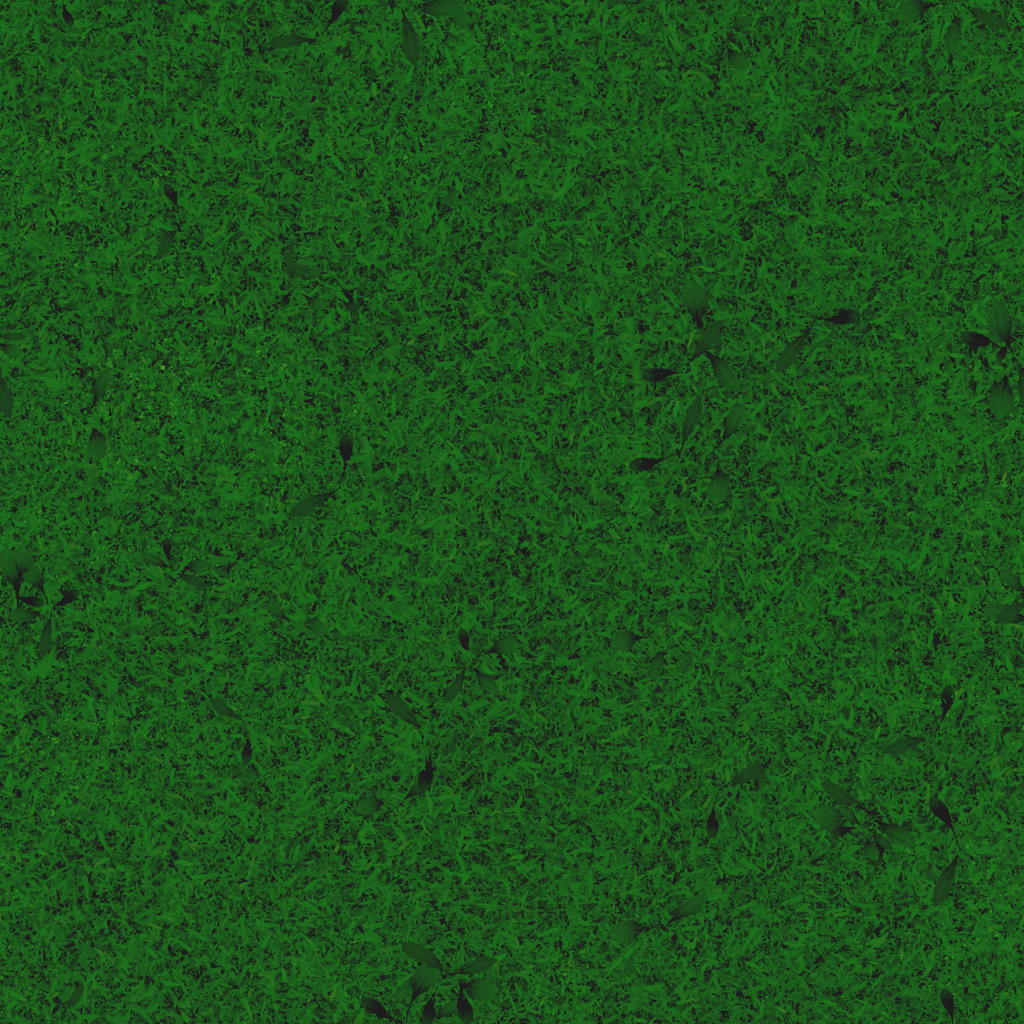
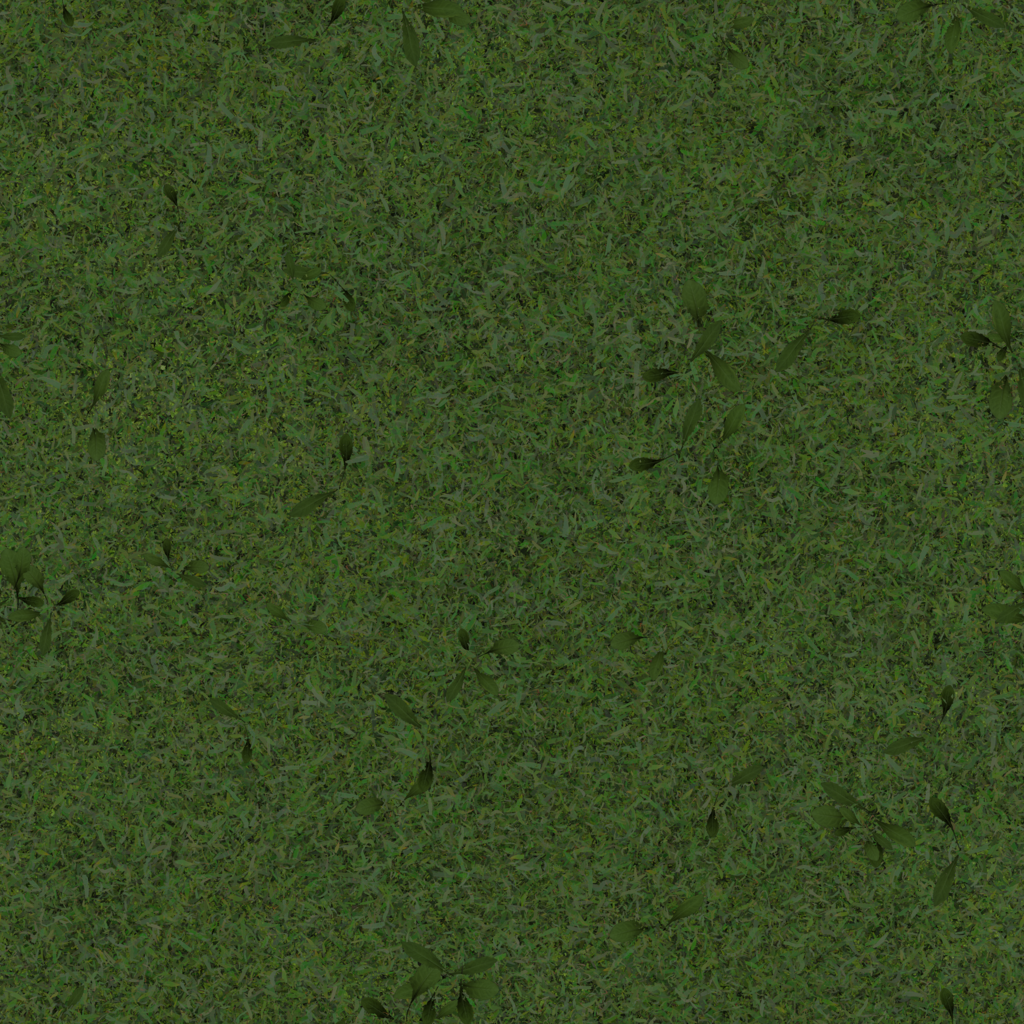
triangle trees

diff --git a/src/main.rs b/src/main.rs
@@ -292,7 +292,7 @@ fn create_tree(center: Vec3, index_offset: u32) -> (Vec<Vec3>, Vec<u32>, Vec<Vec
     let mut indices = Vec::new();
     let mut uvs = Vec::new();
     // let tree_height = 1.6;
-    let tree_height = random_range(0.8_f32..4.0);
+    let tree_height = random_range(0.8_f32..4.0) * 0.8;
     let tree_base_width = random_range(0.2_f32..0.8);
     // let tree_base_width = 0.5;
     // let tree_height = 1.6 * 10.0;
@@ -309,7 +309,7 @@ fn create_tree(center: Vec3, index_offset: u32) -> (Vec<Vec3>, Vec<u32>, Vec<Vec
 
     for i in 0..num_faces {
         let indices_start = vertices.len() as u32 + index_offset;
-        let start_radians = face_offset * i as f32;
+        let start_radians = face_offset * i as f32 + PI / 4.0;
         let x1 = center.x + start_radians.cos() * tree_base_width;
         let x2 = center.x + (start_radians + PI).cos() * tree_base_width;
         let z1 = center.z + (start_radians).sin() * tree_base_width;
@@ -323,12 +323,17 @@ fn create_tree(center: Vec3, index_offset: u32) -> (Vec<Vec3>, Vec<u32>, Vec<Vec
         uvs.push(Vec2::new(0.0, 0.0) / uv_warp);
 
         indices.push(top_index); // top vertex
+        // if (x1 + z1 > x2 + z2) {
         indices.push(indices_start); // base right of triangle
         indices.push(indices_start + 1); // base left of triangle
-        //double sided
-        indices.push(top_index); // top vertex
-        indices.push(indices_start + 1); // base left of triangle
-        indices.push(indices_start); // base right of triangle
+        // } else {
+        // indices.push(indices_start); // base right of triangle
+        // indices.push(indices_start + 1); // base left of triangle
+        // }
+        // //double sided
+        // indices.push(top_index); // top vertex
+        // indices.push(indices_start + 1); // base left of triangle
+        // indices.push(indices_start); // base right of triangle
     }
 
     //
@@ -370,20 +375,26 @@ fn render_terrain(
         let mut forest_indices = Vec::new();
         let mut forest_uvs = Vec::new();
 
-        let num_trees = 1_000_000;
+        // let num_trees = 1_000_000;
+        let num_trees = 500_000;
         // let num_trees = 10_000;
         // let num_trees = 1;
         // let num_trees = 10;
         let mut tree_count = 0;
 
         while tree_count < num_trees {
-            let offset_x = random_range(0_f32..rand_offset);
-            let offset_z = random_range(0_f32..rand_offset);
+            let offset_x = random_range(2.0_f32..rand_offset - 2.0);
+            let offset_z = random_range(2.0_f32..rand_offset - 2.0);
 
             let i = offset_z.round() as usize * MAP_HEIGHT + offset_x as usize;
             let i = i.min(data.len() - 1);
             let height = data[i];
-            if height < 1.0 {
+            let roll = if height > 0.1 {
+                random_range(0.0_f32..height.powf(3.0))
+            } else {
+                0.05
+            };
+            if roll < 1.0 && height < 5.0 {
                 // println!("vertex count {}")
                 let (mut t_vers, mut t_inds, mut t_uvs) = create_tree(
                     Vec3::new(offset_x - 300.0, height, offset_z - 300.0),
@@ -434,8 +445,8 @@ fn render_terrain(
         forest_mesh.insert_attribute(Mesh::ATTRIBUTE_UV_0, forest_uvs);
         forest_mesh.insert_indices(bevy::render::mesh::Indices::U32(forest_indices));
 
-        // forest_mesh.compute_smooth_normals();
-        // forest_mesh.generate_tangents().unwrap();
+        forest_mesh.compute_normals();
+        forest_mesh.generate_tangents().unwrap();
         let mesh = meshes.add(forest_mesh);
         let texture_handle = asset_server.load_with_settings("leaves.png", |s: &mut _| {
             *s = ImageLoaderSettings {
@@ -450,12 +461,16 @@ fn render_terrain(
         });
         let b = 1.8;
         let mat = StandardMaterial {
-            // perceptual_roughness: 0.5,
-            base_color: Color::srgba(b, b, b, 1.0),
+            perceptual_roughness: 1.0,
+            // base_color: Color::srgba(b, b, b, 1.0),
+            // double_sided: true,
             // base_color: Color::srgba(0.0, 0.0, 0.0, 0.0),
             base_color_texture: Some(texture_handle),
+            // thickness: 1.0,
+            // unlit: false,
             ..Default::default()
         };
+        // let mat = Color::WHITE;
         commands.spawn((Mesh3d(mesh), MeshMaterial3d(materials.add(mat)), BoxLabel2));
         compute_finished.clear();
     }
